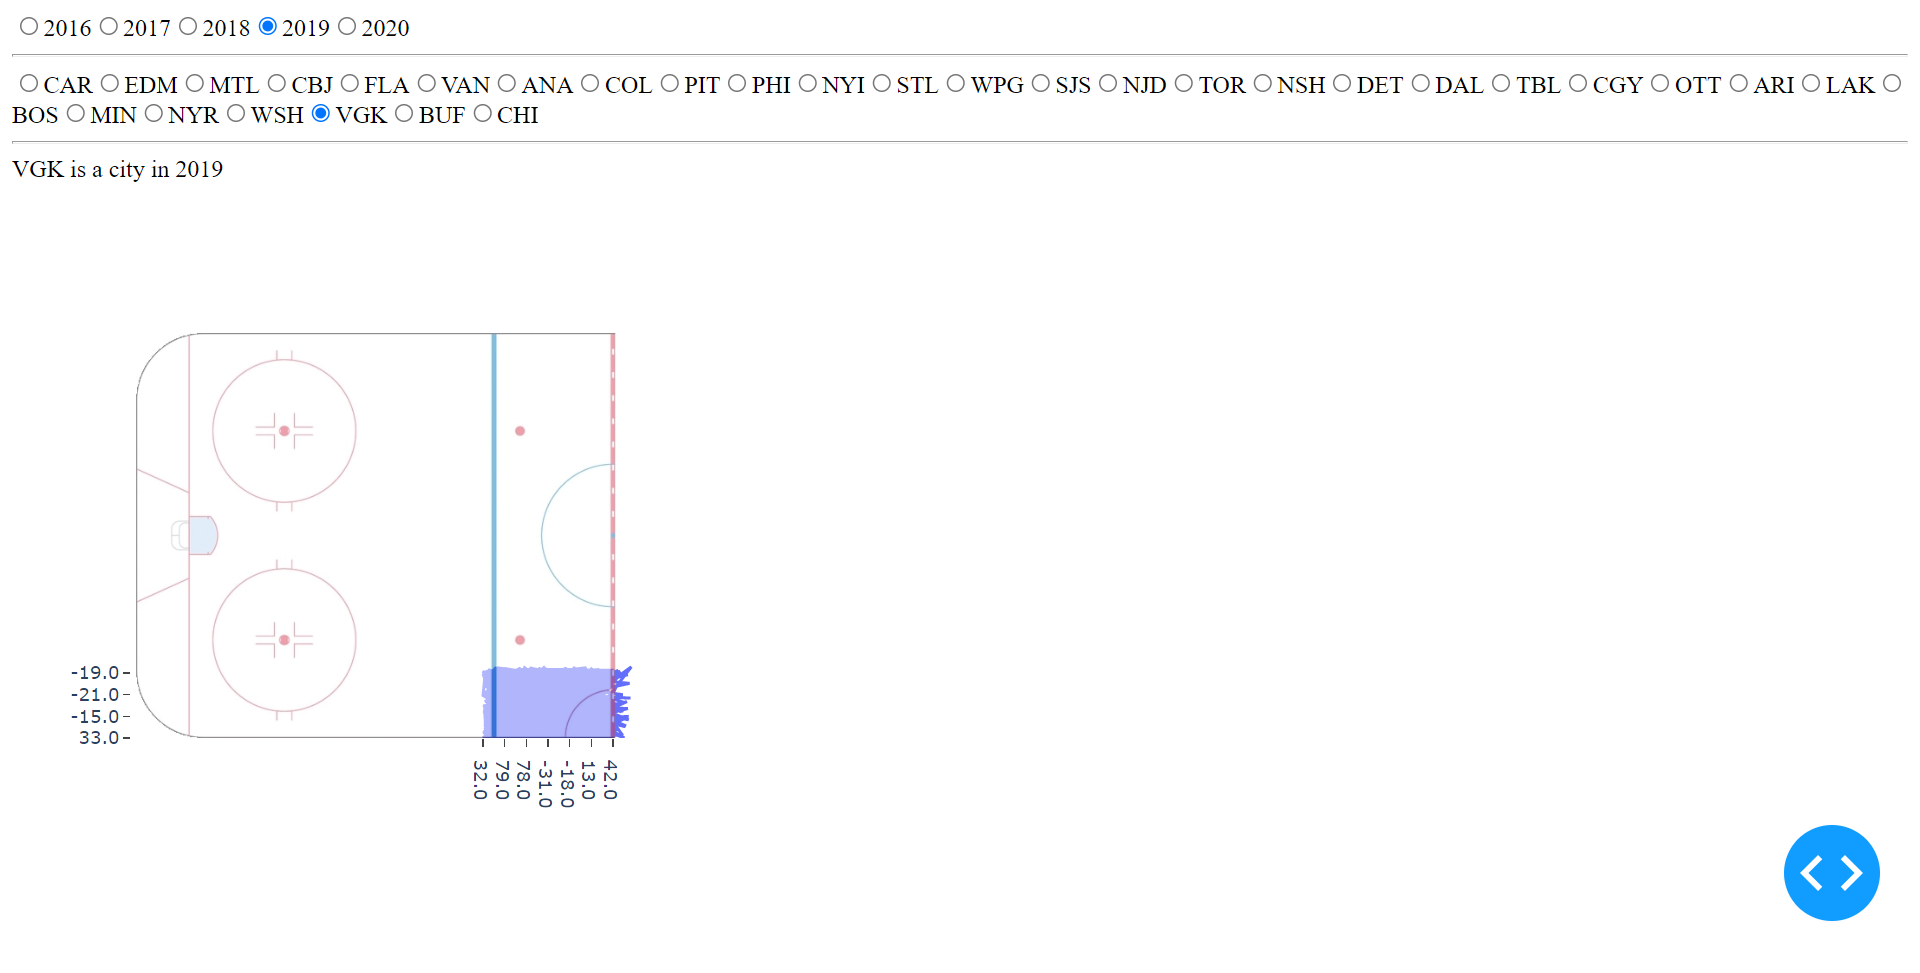
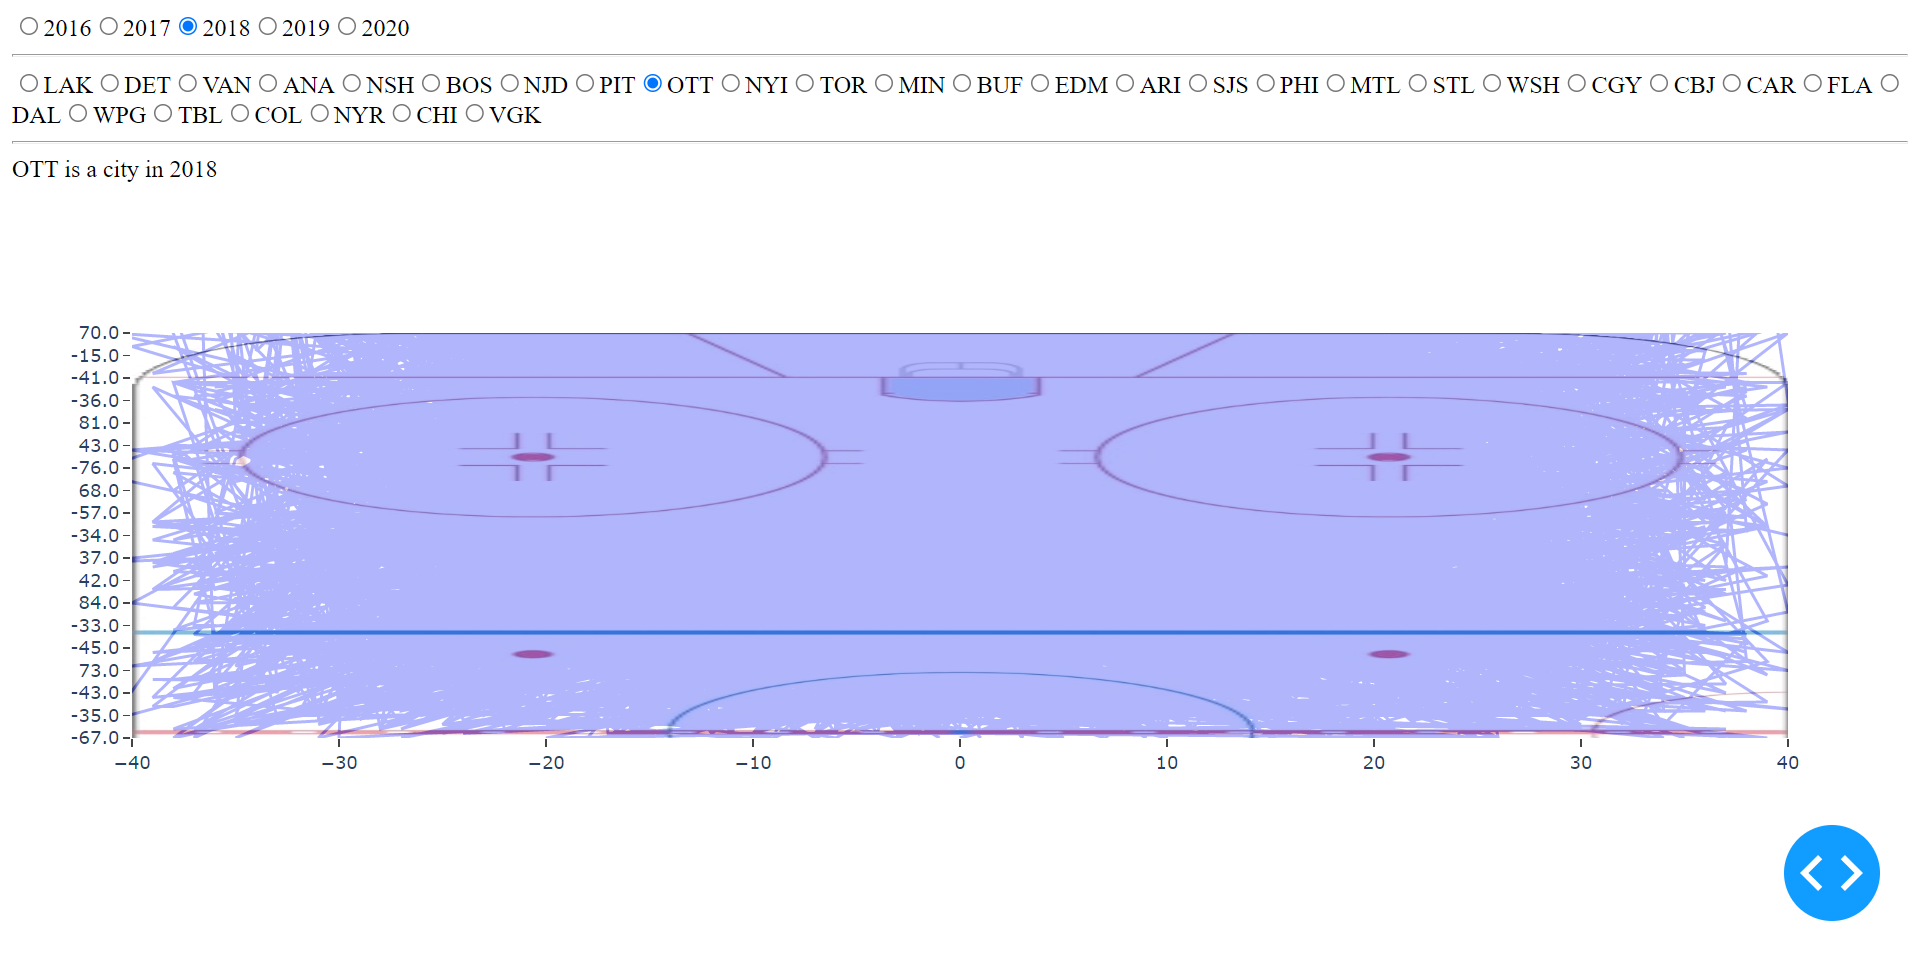
Rotation of Image and Coordinates placed correctly in the image. Proceed with the placing of maps.

diff --git a/src/visualization/advance_visuals.py b/src/visualization/advance_visuals.py
@@ -79,74 +79,66 @@ def update_graph(selected_season, selected_team):
 
     # Add the behind image
     im = Image.open("nhl_rink.jpg")
-    img_width, img_height = im.size
+    rot_img = im.transpose(Image.Transpose.ROTATE_90)
+    img_width, img_height = rot_img.size
     scale_factor = 0.5
-    print(img_width)
 
-    fig.add_layout_image(
-        dict(
-            source=Image.open("nhl_rink.jpg"),
-            xref="x",
-            yref="y",
-            x=-400,
-            sizex=img_width/2 + 2.5,
-            y=img_height,
-            sizey=img_height,
-            layer="above",
-            # "stretch" in the sizing will make the figure compressed
-            sizing="fill",
-            opacity=0.5
-        )
-    )
-
-    # Configure axes
-    fig.update_xaxes(
-        ticks="outside",
-        visible=True,
-        range=[0, img_width],
-        showgrid=False
-    )
-
-    fig.update_yaxes(
-        ticks="outside",
-        visible=True,
-        range=[0, img_height],
-        # scaleanchor attribute ensures that the aspect ratio stays constant
-        # scaleanchor attribute makes the x-axis unaligned
-        scaleanchor="x",
-        showgrid=False
-    )
-
-    # print(hockey_df.loc[(hockey_df.season == selected_season) &
-    #                     (hockey_df['home team'] == selected_team) &
-    #                     (hockey_df['away team'] == selected_team)
-    #                     ]['coordinates'].values.tolist())
     desired_coordinates = hockey_df.loc[(hockey_df.season == selected_season) &
                                         ((hockey_df['home team'] == selected_team) |
-                                        (hockey_df['away team'] == selected_team))]['coordinates'].values.tolist()
+                                         (hockey_df['away team'] == selected_team))]['coordinates'].values.tolist()
 
     coor_x_list = []
     coor_y_list = []
     for coordinates in desired_coordinates:
         coor_x, coor_y = coordinates.replace('[', '').replace(']', '').split(',')
         coor_x_list.append(coor_x)
-        coor_y_list.append(coor_y)
-        print(coor_x, coor_y)
+        coor_y_list.append(float(coor_y))
 
-    fig.add_trace(go.Scatter(x=coor_x_list,
-                     y=coor_y_list))
-    # x = [489.99378204345703, 424.4607162475586, 665.4505157470703, 665.1176452636719]
-    # y = [709.4012403488159, 253.38330745697021, 519.5582628250122, 519.5164632797241]
-    # for x, y in zip(x, y):
-    #     print(x, y)
+    print(coor_x_list)
+    print(coor_y_list)
 
-    # # Add surface trace
-    # fig.add_trace(
-    #     go.Heatmap(z=hockey_df.loc[(hockey_df.season == selected_season) &
-    #                                (hockey_df['home team'] == selected_team)]['coordinates'].values.tolist(),
-    #                colorscale="Viridis"))
+    # Add surface trace
+    # fig.add_trace(go.Heatmap(z=desired_coordinates, colorscale="Viridis"))
+    # print(desired_coordinates)
+    print(img_height, img_width)
 
-    # # fig.update_yaxes(autorange="reversed")
+    fig.add_layout_image(
+        dict(
+            source=rot_img,
+            xref="x",
+            yref="y",
+            x=-40,
+            sizex=img_width/5.83,
+            y=180/2,
+            sizey=img_height/6.2,
+            layer="above",
+            # "stretch" in the sizing will make the figure compressed
+            sizing="stretch",
+            opacity=0.5
+        )
+    )
+
+    # Configure axes
+    fig.update_yaxes(
+        ticks="outside",
+        visible=True,
+        range=[0, 90],
+        showgrid=False
+    )
+
+    fig.update_xaxes(
+        ticks="outside",
+        visible=True,
+        range=[-40, 40],
+        # scaleanchor attribute ensures that the aspect ratio stays constant
+        # scaleanchor attribute makes the x-axis unaligned
+        # scaleanchor="x",
+        showgrid=False
+    )
+    fig.add_trace(go.Scatter(x=coor_y_list, y=coor_x_list))
+    # Not working in Plotly. Rotation of figure should be at image level
+    # fig.update_polars(angularaxis_rotation=180)
+
     # # Disable the autosize on double click because it adds unwanted margins around the image
     # # More detail: https://plotly.com/python/configuration-options/
     # # fig.show(config={'doubleClick': 'reset'})
